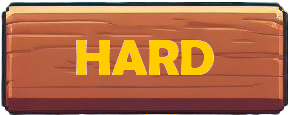
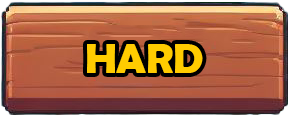
added buttons

Changed region(s): [[0.2483, 0.3391, 0.7448, 0.6783], [0.5586, 0.9913, 0.6207, 1.0], [0.4966, 0.9913, 0.5276, 1.0]]

diff --git a/core/src/se/yrgo/jumpybirb/screens/GameOverScreen.java b/core/src/se/yrgo/jumpybirb/screens/GameOverScreen.java
@@ -55,8 +55,8 @@ public class GameOverScreen implements Screen {
         textFont.getData().setScale(FONT_SCALE);
 
         // Set up gameOverFont
-        fontGenerator = new FreeTypeFontGenerator(Gdx.files.internal("fonts/CrackerWinter-VGLPl.ttf"));
-        scoreNumbersFontGenerator = new FreeTypeFontGenerator(Gdx.files.internal("fonts/Ignotum-7BMMw.ttf"));
+        fontGenerator = new FreeTypeFontGenerator(Gdx.files.internal("fonts/BRLNSDB.ttf"));
+        scoreNumbersFontGenerator = new FreeTypeFontGenerator(Gdx.files.internal("fonts/BRLNSDB.ttf"));
         FreeTypeFontParameter largeStyle = new FreeTypeFontGenerator.FreeTypeFontParameter();
         largeStyle.size = 60;
         largeStyle.color = Color.valueOf("#ffda05");
